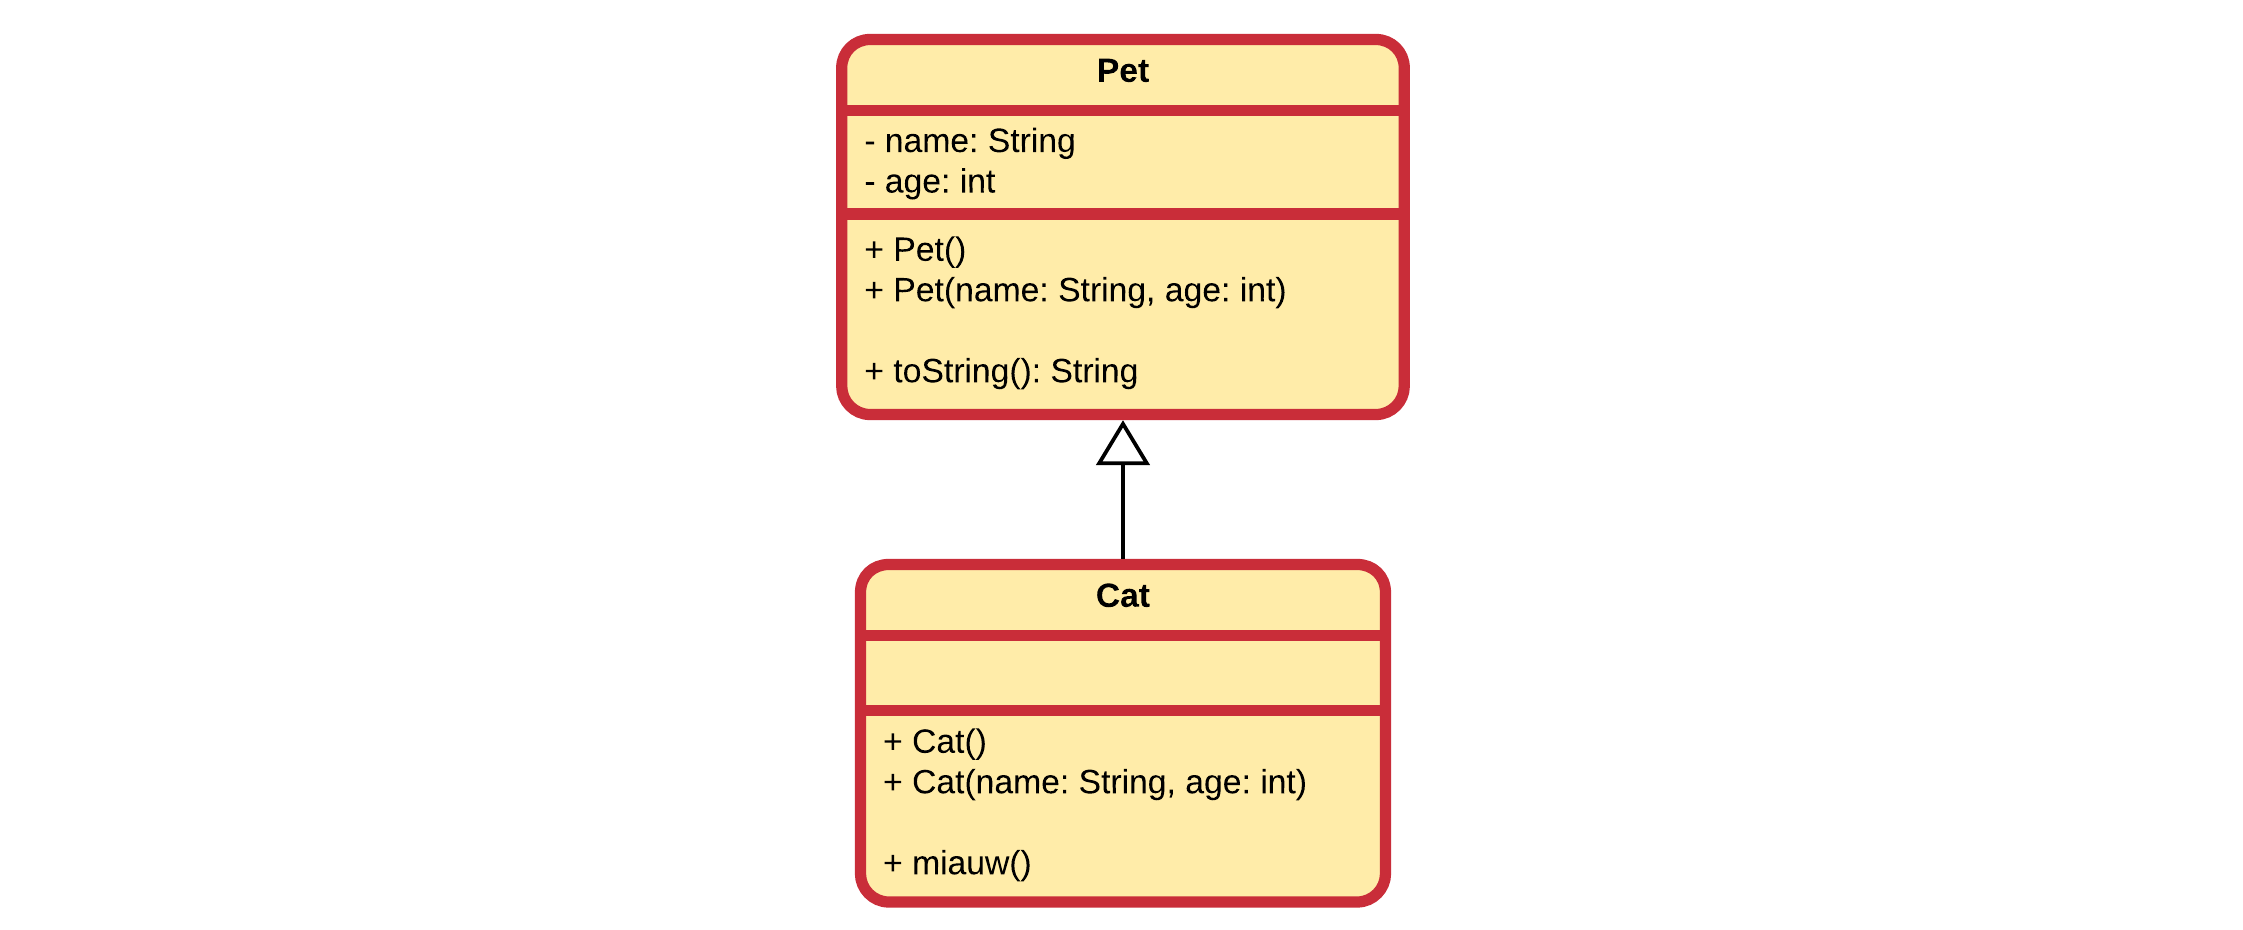
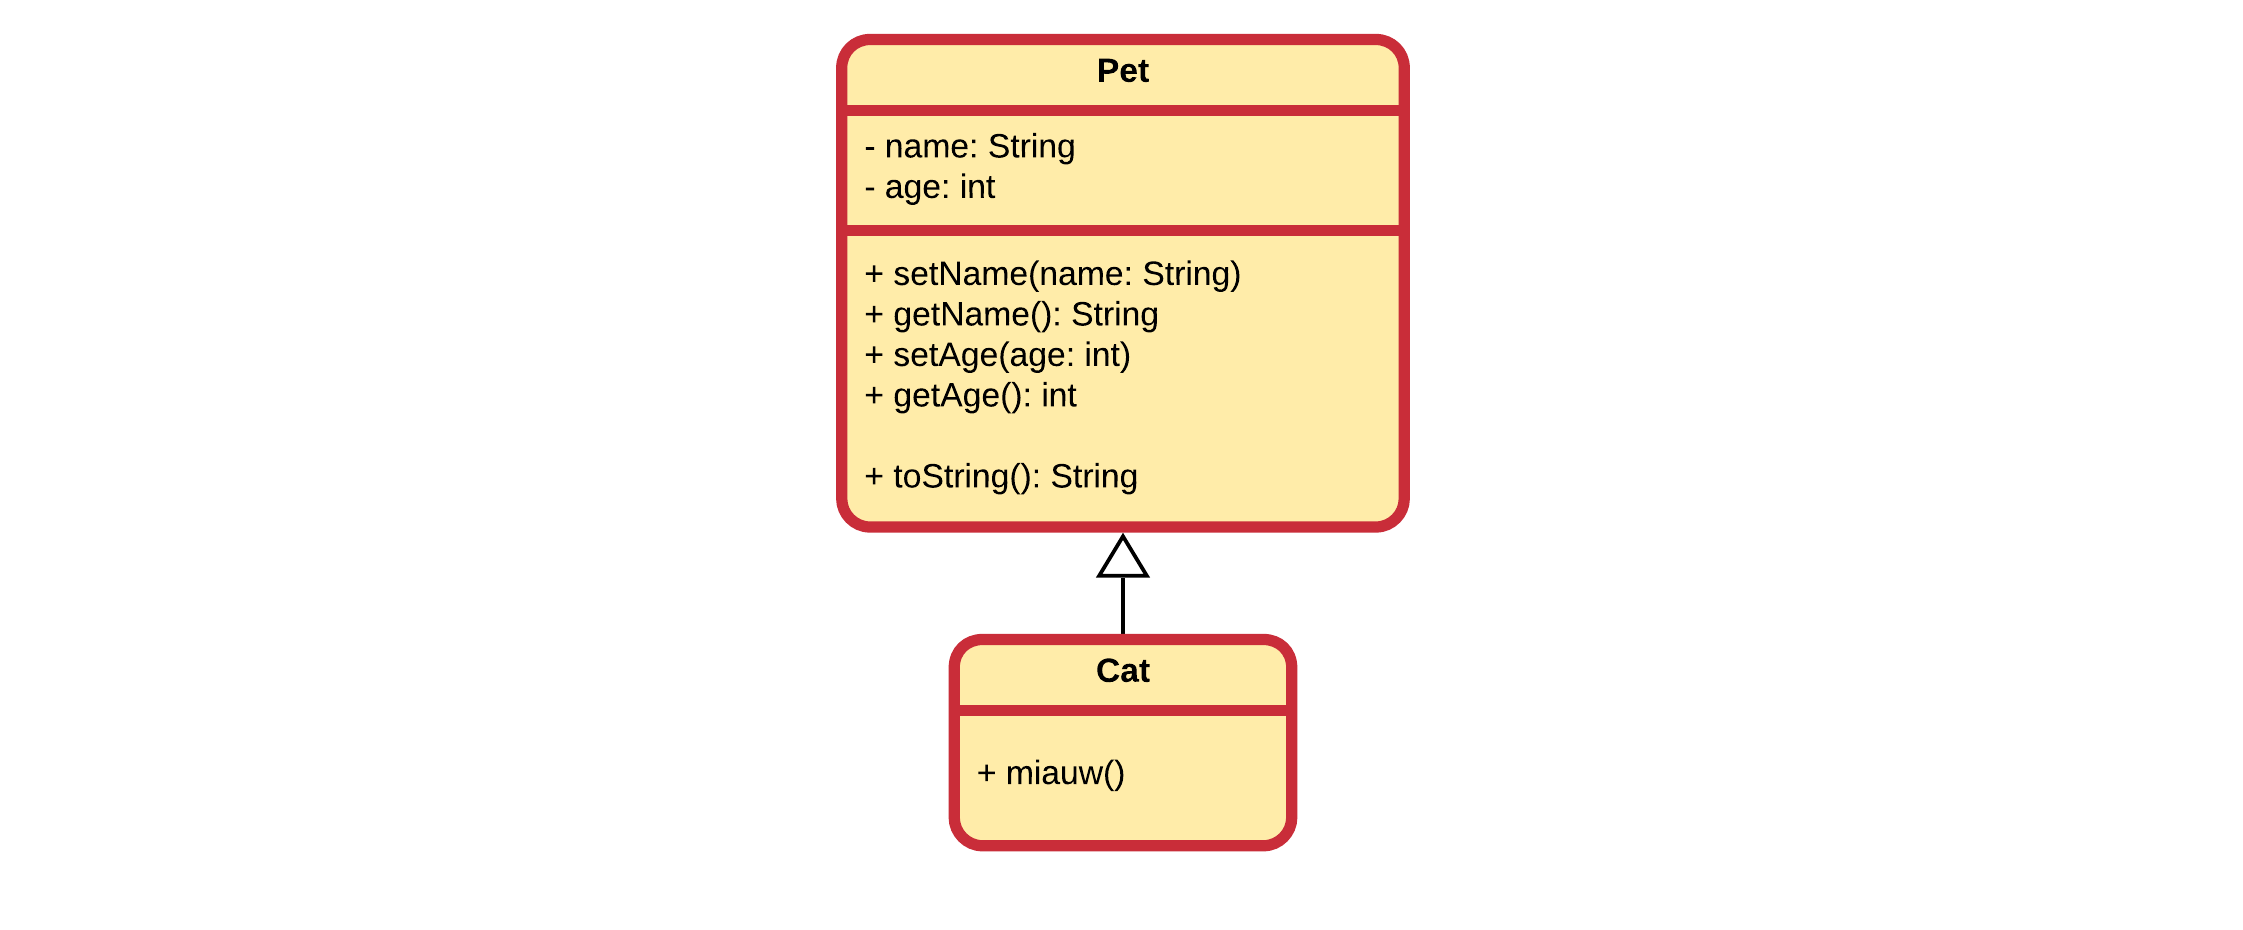
Refactor Pet example to not use constructors. Makes it simpler example

Changed region(s): [[0.3745, 0.1247, 0.6554, 0.9978]]

diff --git a/16_inheritance/readme.md b/16_inheritance/readme.md
@@ -123,12 +123,19 @@ A matching implementation in Java is shown below for the class `Pet`
 ```java
 public class Pet {
 
-  public Pet() {
-    this("unknown", 0);     // Call another constructor
+  public String getName() {
+    return name;
   }
 
-  public Pet(String name, int age) {
+  public void setName(String name) {
     this.name = name;
+  }
+
+  public int getAge() {
+    return age;
+  }
+
+  public void setAge(int age) {
     this.age = age;
   }
 
@@ -143,38 +150,29 @@ public class Pet {
 }
 ```
 
-The implementation of the class `Cat` is a bit similar if we wish to have similar constructors for a `Cat`. The big difference is that a `Cat` can make a specific noise, namely `Miauw`.
+The implementation of the class `Cat` is very simple as we only need to extend the existing `Pet` class. The only difference is that a `Cat` can make a specific noise, namely `Miauw`.
 
 ```java
 public class Cat extends Pet {
   // The Cat class inherits from the Pet class
 
-  public Cat() {
-    this("Moesti", 0);  // Call other constructor of Cat
-  }
-
-  public Cat(String name, int age) {
-    super(name, age);   // Call specific constructor of Pet
-  }
-
   public void miauw() {
-    System.out.println("Miauw, miauw ...");
+    System.out.println(getName() + " goes miauw, miauw ...");
   }
 }
 ```
-
-Note that we can call a constructor from inside another constructor in the same class using the `this` keyword. One can also call a specific constructor of the baseclass by using the keyword `super`. Otherwise the default constructor of the base class will be called.
-
-Note that when using `super` or `this` to call another constructor, it needs to be the first statement inside that constructor. No other initialization or statements can come before it.
 
 A small demo app could be:
 
 ```java
 public static void main(String[] args) {
-  Pet pet = new Pet("Jenni", 11);
-  Cat cat = new Cat("Oscar", 3);
-
+  Pet pet = new Pet();
+  pet.setName("Ozzy");
   System.out.println(pet);
+
+  Cat cat = new Cat();
+  cat.setName("Oscar");
+  cat.setAge(3);
   System.out.println(cat);
 
   cat.miauw();
@@ -184,12 +182,12 @@ public static void main(String[] args) {
 Which would output:
 
 ```text
-The pet Jenni has an age of 11 years.
+The pet Ozzy has an age of 0 years.
 The pet Oscar has an age of 3 years.
 Miauw, miauw ...
 ```
 
-Adding a `Dog` class is not all that difficult. Just `extend` the `Pet` class, add constructors and a method to allow the `Dog` to bark.
+Adding a `Dog` class is not all that difficult. Just `extend` the `Pet` class and a method to allow the `Dog` to bark.
 
 ![Pet superclass, Cat and Dog subclasses](./img/pet_dog_cat.png)
 
@@ -199,16 +197,8 @@ This would result in the following implementation in Java:
 public class Dog extends Pet {
   // The Dog class inherits from the Pet class
 
-  public Dog() {
-    this("Fiddo", 0);     // Call another constructor
-  }
-
-  public Dog(String name, int age) {
-    super(name, age);   // Call specific constructor of Pet
-  }
-
   public void bark() {
-    System.out.println("Woef, woef woef");
+    System.out.println(getName() + " goes woef, woef woef");
   }
 }
 ```
@@ -217,15 +207,22 @@ Extending the main application to test the `Dog` class could result in:
 
 ```java
 public static void main(String[] args) {
-  Pet pet = new Pet("Jenni", 11);
-  Cat cat = new Cat("Oscar", 3);
-  Dog dog = new Dog("Sam", 2);
-
+  Pet pet = new Pet();
+  pet.setName("Ozzy");
   System.out.println(pet);
+
+  Cat cat = new Cat();
+  cat.setName("Oscar");
+  cat.setAge(3);
   System.out.println(cat);
-  System.out.println(dog);
 
   cat.miauw();
+
+  Dog dog = new Dog();
+  dog.setName("Sam");
+  dog.setAge(2);
+  System.out.println(dog);
+
   dog.bark();
 }
 ```
@@ -233,7 +230,7 @@ public static void main(String[] args) {
 Which would output:
 
 ```text
-The pet Jenni has an age of 11 years.
+The pet Ozzy has an age of 0 years.
 The pet Oscar has an age of 3 years.
 The pet Sam has an age of 2 years.
 Miauw, miauw ...
